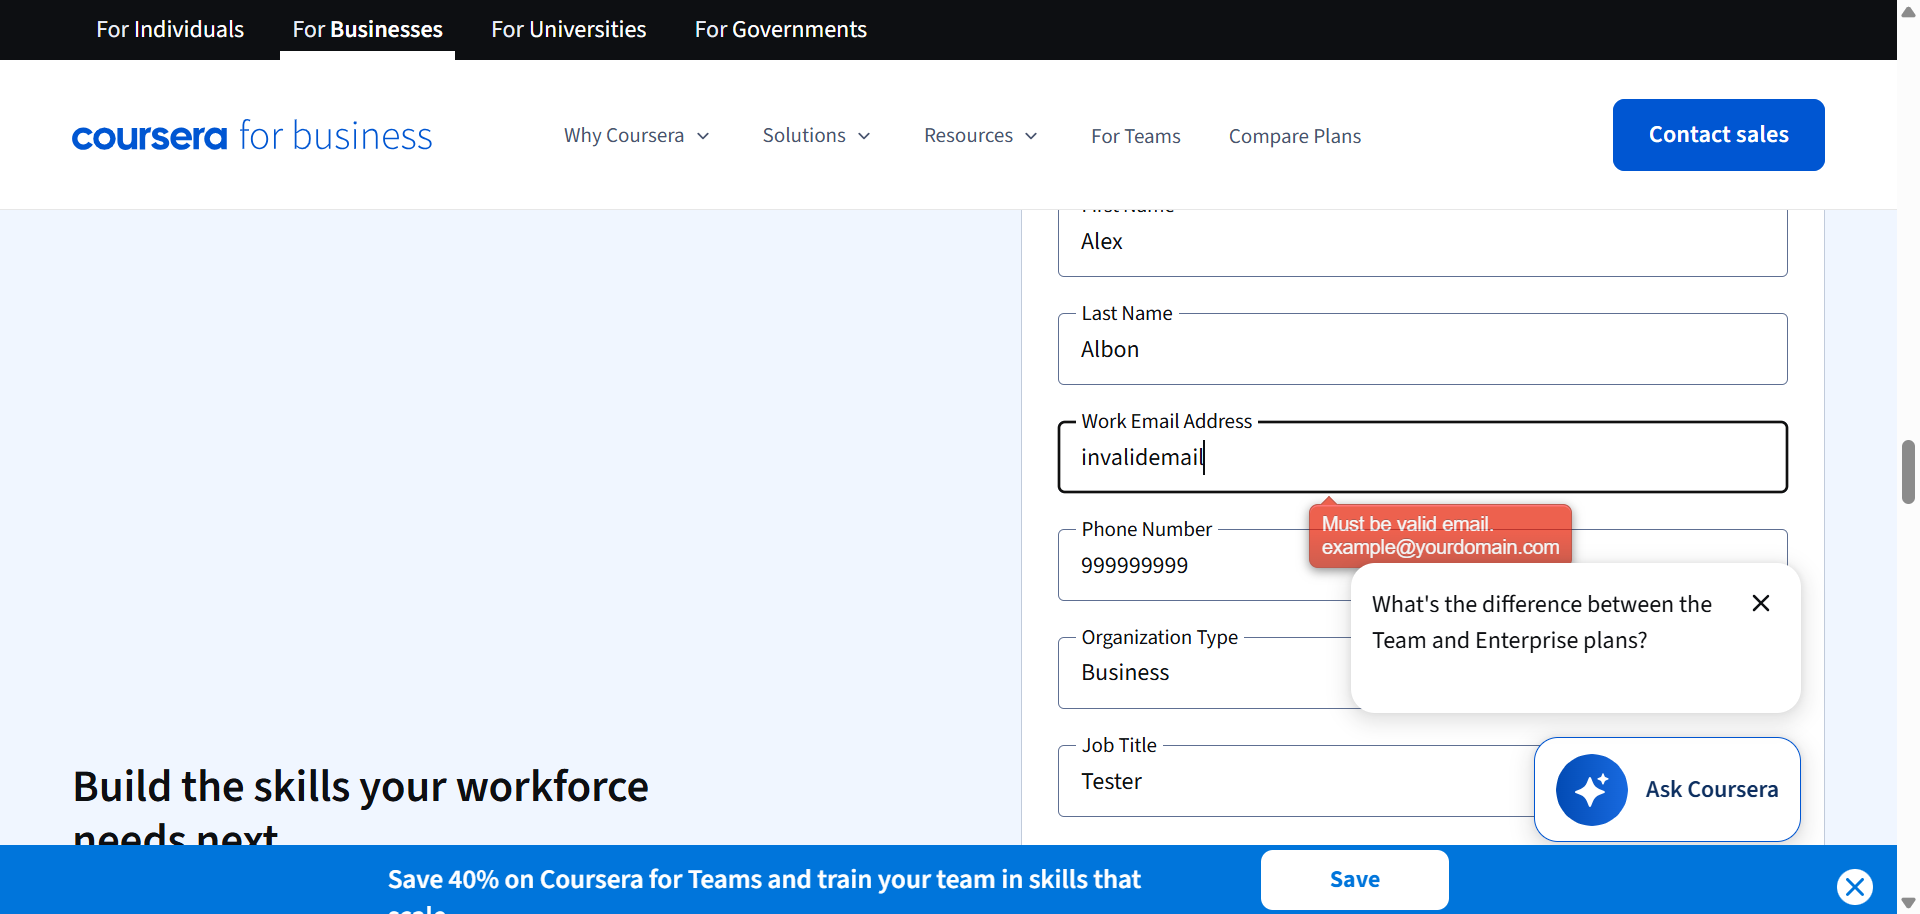
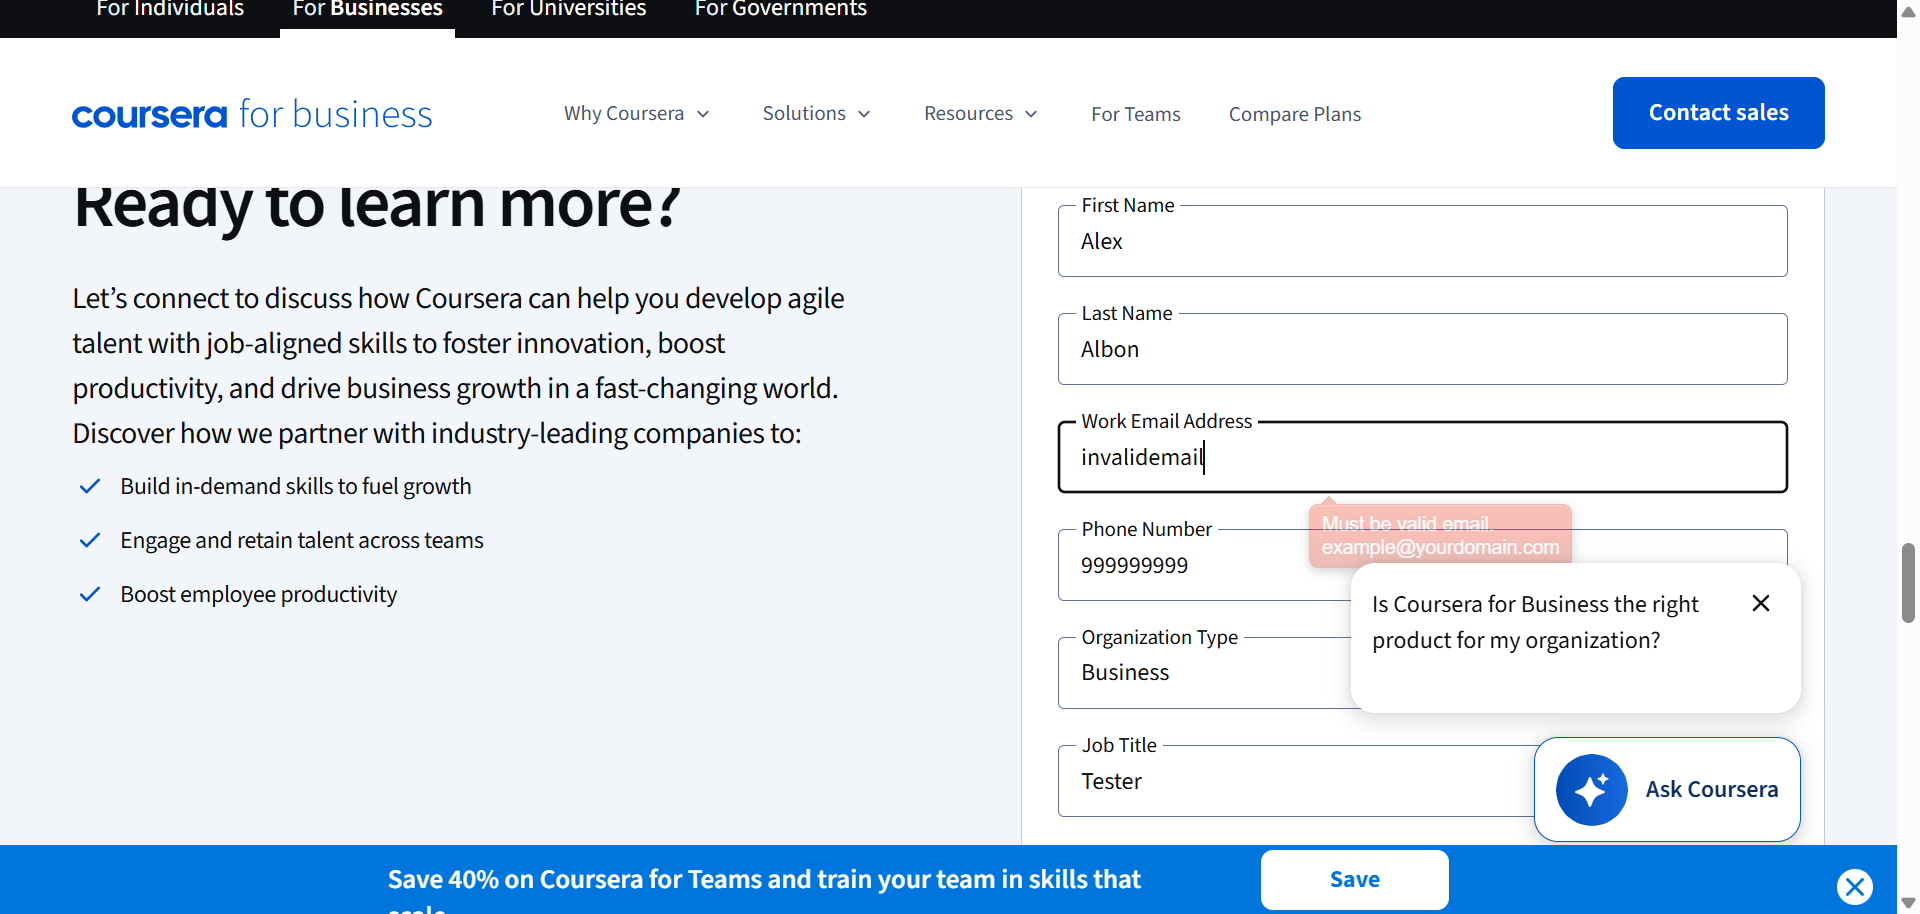
final updated

diff --git a/Report/Index.html b/Report/Index.html
@@ -35,7 +35,7 @@
 <a href="#"><span class="badge badge-primary"></span></a>
 </li>
 <li class="m-r-10">
-<a href="#"><span class="badge badge-primary">Jul 6, 2026 12:36:47 pm</span></a>
+<a href="#"><span class="badge badge-primary">Jul 7, 2026 11:21:27 am</span></a>
 </li>
 </ul>
 </div>
@@ -81,7 +81,7 @@
           <div class="test-detail">
             <p class="name">Searching Course Web Development</p>
             <p class="text-sm">
-              <span>12:36:48 pm</span> / <span>00:02:08:133</span>
+              <span>11:21:27 am</span> / <span>00:02:14:696</span>
               <span class="badge pass-bg log float-right">Pass</span>
             </p>
           </div>
@@ -90,9 +90,9 @@
 <div class="p-v-10">
 <div class="info">
 <h5 class="test-status text-pass">Searching Course Web Development</h5>
-<span class='badge badge-success'>07.06.2026 12:36:48 pm</span>
-<span class='badge badge-danger'>07.06.2026 12:38:56 pm</span>
-<span class='badge badge-default'>00:02:08:133</span>
+<span class='badge badge-success'>07.07.2026 11:21:27 am</span>
+<span class='badge badge-danger'>07.07.2026 11:23:42 am</span>
+<span class='badge badge-default'>00:02:14:696</span>
 &middot; <span class='uri-anchor badge badge-default'>#test-id=1</span>
 <span title='Skip to the next failed step' class='badge badge-danger pointer float-right ne ml-1'><i class="fa fa-fast-forward"></i></span>
 <span title='Collapse all nodes' class='badge badge-default pointer float-right ct ml-1'><i class="fa fa-compress"></i></span>
@@ -328,7 +328,7 @@
           <div class="test-detail">
             <p class="name">Look for Language Learning, Extract all the languages and different levels</p>
             <p class="text-sm">
-              <span>12:38:56 pm</span> / <span>00:03:05:528</span>
+              <span>11:23:42 am</span> / <span>00:03:52:580</span>
               <span class="badge pass-bg log float-right">Pass</span>
             </p>
           </div>
@@ -337,9 +337,9 @@
 <div class="p-v-10">
 <div class="info">
 <h5 class="test-status text-pass">Look for Language Learning, Extract all the languages and different levels</h5>
-<span class='badge badge-success'>07.06.2026 12:38:56 pm</span>
-<span class='badge badge-danger'>07.06.2026 12:42:02 pm</span>
-<span class='badge badge-default'>00:03:05:528</span>
+<span class='badge badge-success'>07.07.2026 11:23:42 am</span>
+<span class='badge badge-danger'>07.07.2026 11:27:35 am</span>
+<span class='badge badge-default'>00:03:52:580</span>
 &middot; <span class='uri-anchor badge badge-default'>#test-id=50</span>
 <span title='Skip to the next failed step' class='badge badge-danger pointer float-right ne ml-1'><i class="fa fa-fast-forward"></i></span>
 <span title='Collapse all nodes' class='badge badge-default pointer float-right ct ml-1'><i class="fa fa-compress"></i></span>
@@ -463,7 +463,7 @@
           <div class="test-detail">
             <p class="name">Coursera Enterprise Form Validation</p>
             <p class="text-sm">
-              <span>12:42:02 pm</span> / <span>00:01:56:170</span>
+              <span>11:27:35 am</span> / <span>00:02:07:587</span>
               <span class="badge pass-bg log float-right">Pass</span>
             </p>
           </div>
@@ -472,9 +472,9 @@
 <div class="p-v-10">
 <div class="info">
 <h5 class="test-status text-pass">Coursera Enterprise Form Validation</h5>
-<span class='badge badge-success'>07.06.2026 12:42:02 pm</span>
-<span class='badge badge-danger'>07.06.2026 12:43:58 pm</span>
-<span class='badge badge-default'>00:01:56:170</span>
+<span class='badge badge-success'>07.07.2026 11:27:35 am</span>
+<span class='badge badge-danger'>07.07.2026 11:29:42 am</span>
+<span class='badge badge-default'>00:02:07:587</span>
 &middot; <span class='uri-anchor badge badge-default'>#test-id=75</span>
 <span title='Skip to the next failed step' class='badge badge-danger pointer float-right ne ml-1'><i class="fa fa-fast-forward"></i></span>
 <span title='Collapse all nodes' class='badge badge-default pointer float-right ct ml-1'><i class="fa fa-compress"></i></span>
@@ -650,13 +650,13 @@
 <div class="col-md-3">
 <div class="card"><div class="card-body">
 <p class="m-b-0">Started</p>
-<h3>Jul 6, 2026 12:36:47 pm</h3>
+<h3>Jul 7, 2026 11:21:27 am</h3>
 </div></div>
 </div>
 <div class="col-md-3">
 <div class="card"><div class="card-body">
 <p class="m-b-0">Ended</p>
-<h3>Jul 6, 2026 12:43:58 pm</h3>
+<h3>Jul 7, 2026 11:29:42 am</h3>
 </div></div>
 </div>
 <div class="col-md-3">
@@ -746,7 +746,7 @@
 </div></div>
 <script>
 var timeline = {
-"Searching Course Web Development":128.133,"Look for Language Learning, Extract all the languages and different levels":185.528,"Coursera Enterprise Form Validation":116.17
+"Searching Course Web Development":134.696,"Look for Language Learning, Extract all the languages and different levels":232.58,"Coursera Enterprise Form Validation":127.587
 };
 </script>
 <div class="row">

diff --git a/src/test/java/stepdefinitions/LanguageLearningSteps.java b/src/test/java/stepdefinitions/LanguageLearningSteps.java
@@ -1,23 +1,11 @@
 package stepdefinitions;
 
-//import driverSetup.DriverInstance;
-import io.cucumber.java.en.And;
 import io.cucumber.java.en.Given;
 import io.cucumber.java.en.Then;
 import io.cucumber.java.en.When;
 import org.junit.Assert;
-import org.openqa.selenium.By;
-import org.openqa.selenium.WebElement;
-import org.openqa.selenium.support.ui.ExpectedConditions;
-import org.openqa.selenium.support.ui.WebDriverWait;
 import pageobjects.LanguageLearningPage;
 import utilities.DriverSetup;
-
-import java.util.ArrayList;
-import java.util.List;
-
-//import static utilities.DriverSetup.driver;
-
 public class LanguageLearningSteps extends DriverSetup {
 
     LanguageLearningPage lp = new LanguageLearningPage();
@@ -67,8 +55,6 @@ public class LanguageLearningSteps extends DriverSetup {
 
 
     }
-
-    //*[@id="search-page-filters"]/div/div/div/div/div/div/div/div/div[2]/div[2]/button/span
 
 
 }

diff --git a/src/test/java/hooks/Hooks.java b/src/test/java/hooks/Hooks.java
@@ -1,18 +1,12 @@
 package hooks;
 
-import java.io.File;
 import java.io.IOException;
-import java.nio.file.Files;
-import java.nio.file.Paths;
-
-import org.apache.commons.io.FileUtils;
 import org.openqa.selenium.OutputType;
 import org.openqa.selenium.TakesScreenshot;
 
 import io.cucumber.java.After;
 import io.cucumber.java.Before;
 import io.cucumber.java.Scenario;
-import pageobjects.SearchPage;
 import utilities.DriverSetup;
 
 
@@ -20,9 +14,8 @@ import utilities.DriverSetup;
 public class Hooks extends DriverSetup{
 
     @Before
-    public void setup(Scenario snr) {
+    public void setup() {
         DriverSetup.initializeDriver();
-        DriverSetup.getDriver().get("https://www.coursera.org/");
     }
 
     @After

diff --git a/src/test/java/stepdefinitions/CourseSearchSteps.java b/src/test/java/stepdefinitions/CourseSearchSteps.java
@@ -4,6 +4,7 @@ import io.cucumber.java.en.*;
 import org.junit.Assert;
 import pageobjects.HomePage;
 import pageobjects.SearchPage;
+import utilities.DriverSetup;
 
 public class CourseSearchSteps {
 
@@ -13,13 +14,8 @@ public class CourseSearchSteps {
     @Given("User launches Coursera website")
     public void user_launches_coursera_website() {
 
+        DriverSetup.getDriver().get("https://www.coursera.org/");
         System.out.println("Coursera Opened");
-    }
-
-    @Then("Verify homepage is displayed")
-    public void verify_homepage_is_displayed() {
-
-        Assert.assertTrue(true);
     }
 
     @When("Verify search box is visible and enabled")

diff --git a/src/main/java/utilities/DriverSetup.java b/src/main/java/utilities/DriverSetup.java
@@ -1,6 +1,5 @@
 package utilities;
 
-import io.github.bonigarcia.wdm.WebDriverManager;
 import org.openqa.selenium.WebDriver;
 import org.openqa.selenium.chrome.ChromeDriver;
 
@@ -9,8 +8,6 @@ public class DriverSetup {
     private static WebDriver driver;
 
     public static void initializeDriver() {
-
-        WebDriverManager.chromedriver().setup();
 
         driver = new ChromeDriver();
 

diff --git a/src/main/java/pageobjects/LanguageLearningPage.java b/src/main/java/pageobjects/LanguageLearningPage.java
@@ -33,7 +33,7 @@ public class LanguageLearningPage {
     public void clickLearnings() {
         driver.findElement(LlOption).click();
 
-try{
+    try{
         Wait<WebDriver> wait = new FluentWait<>(driver)
                 .withTimeout(Duration.ofSeconds(30))
                 .pollingEvery(Duration.ofSeconds(2))

diff --git a/src/test/java/stepdefinitions/EnterpriseFormSteps.java b/src/test/java/stepdefinitions/EnterpriseFormSteps.java
@@ -1,7 +1,5 @@
 package stepdefinitions;
 
-import io.cucumber.java.af.En;
-import io.cucumber.java.bs.A;
 import io.cucumber.java.en.*;
 import org.junit.Assert;
 import pageobjects.EnterprisePage;
